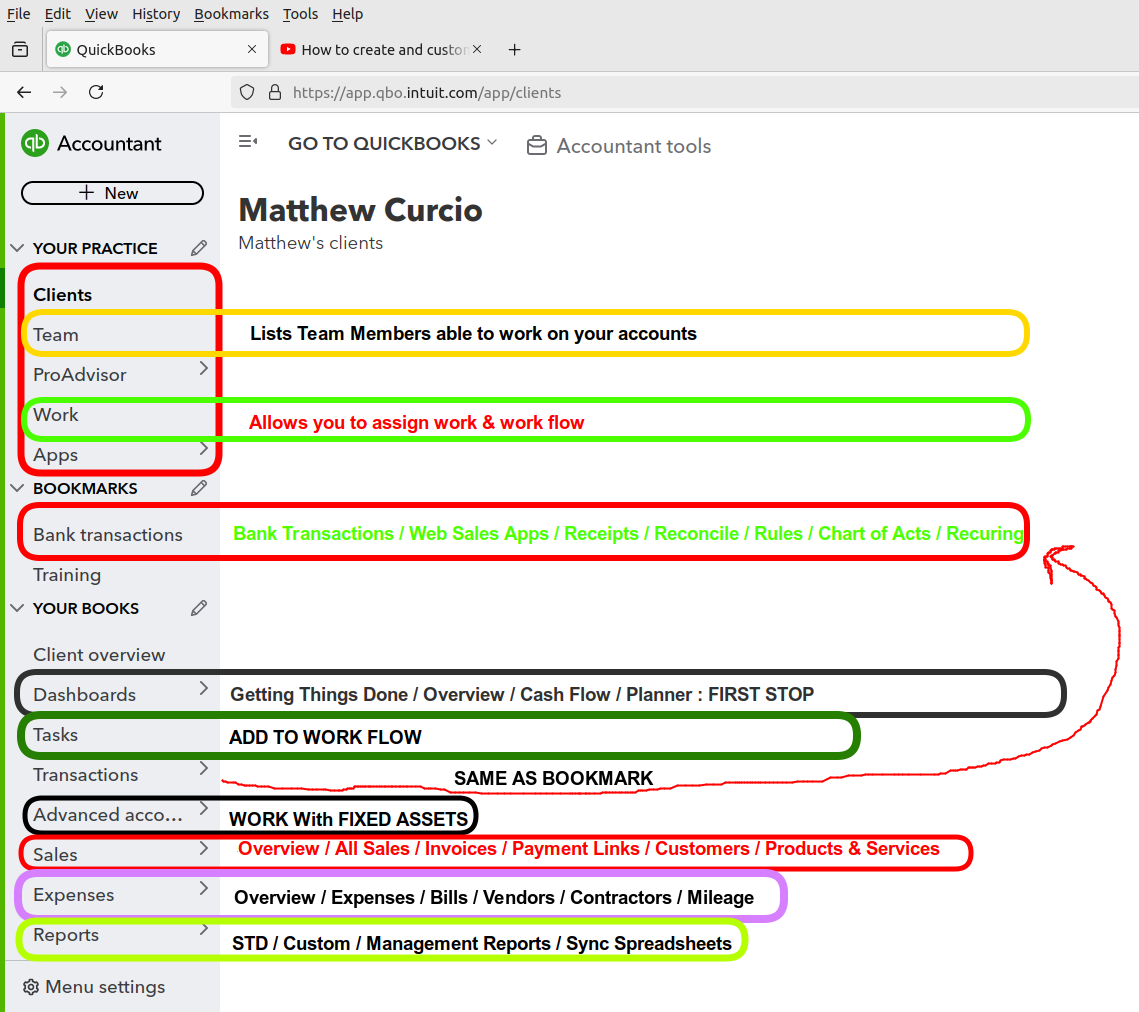
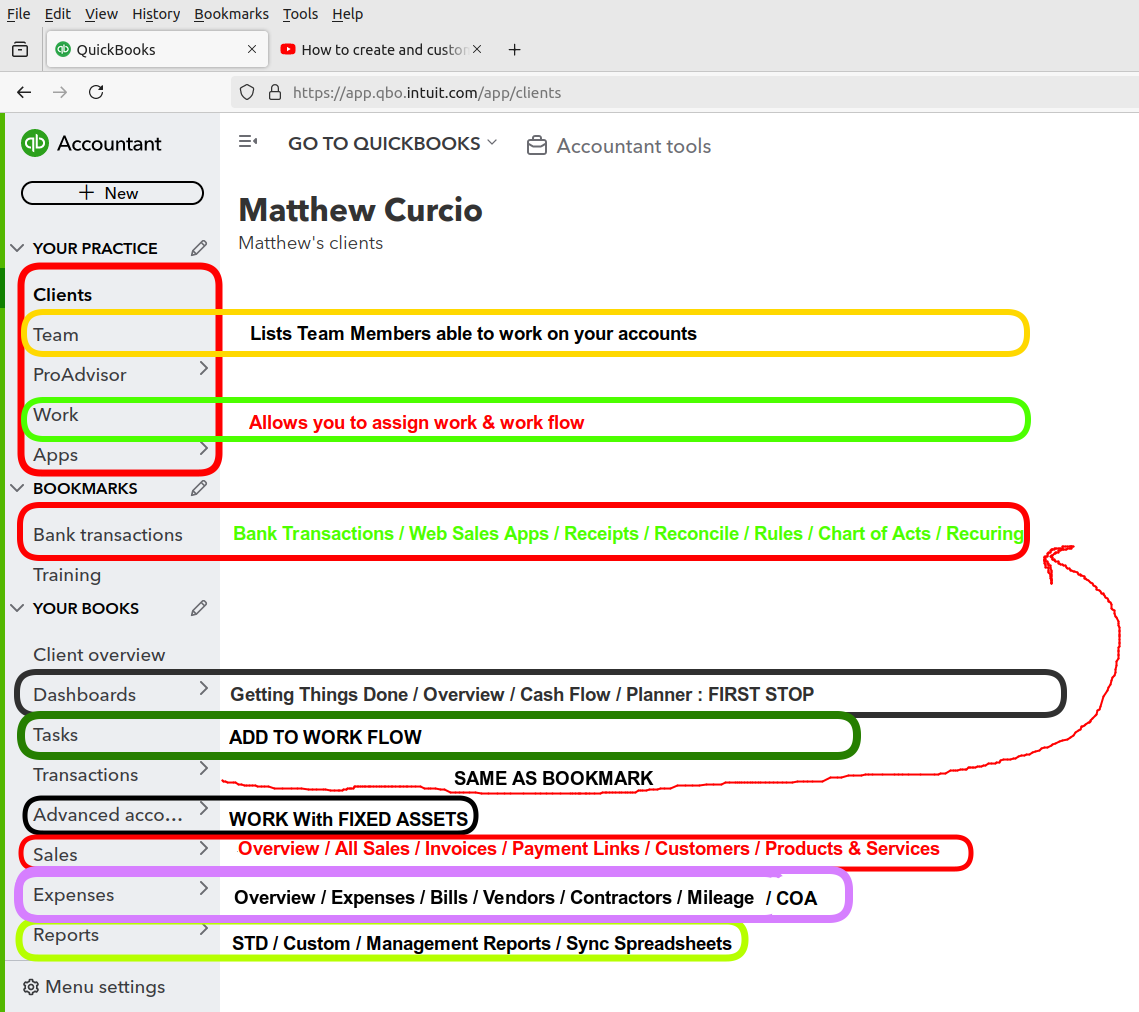
qbo free mods

Changed region(s): [[0.0307, 0.8883, 0.6453, 0.919], [0.676, 0.8577, 0.7682, 0.919]]

diff --git a/_posts/2024-06-30-qbo-free.md b/_posts/2024-06-30-qbo-free.md
@@ -3,50 +3,58 @@ title: thequickbooksdude NOTES
 layout: post
 ---
 
-## QuickBooks Online Complete Tutorial
+ <script> function openWindow()
+ {window.open("https://www.youtube.com/watch?v=aoWghI3kvpc");}
+ </script>
 
-<button onclick="openWindow()">Open Tab: the quickbooks dude</button>
-<script>
-function openWindow() {
-  window.open("https://www.youtube.com/watch?v=aoWghI3kvpc");
-}
-</script>
+| QuickBooks Online Youtube Tutorial |
+|:-:|
+| <button onclick="openWindow()">Open: The quickbooks dude</button>|
+
+
 
 Timestamps:  
 
 1:45 Navigate The QuickBooks Online Interface
 
-|Two main views||
-|:--|:--|
-|![Accountant](/assets/images/qbo.left.panel.png)|1. Accountant view - has 17 options from the left hand menu|
-||2. Business view - has 9 options on left hand side menu|
-
-### Similar aspects for BOTH views
+### Similar aspects for all views
 
   1. `Settings` 'gear-wheel' on top-rt
   2. `+New` on the top-left: opens menu for day-to-day tasks
-  3. `Left panel menu`: either Accountant view or Business view
-  4. `Getting things done` once you drill down
+  3. `Left panel menu`: Accountant view or Business view
 
-![](/assets/images/getting-things-done.700px.png)
+![](/assets/images/getting-things-done.BIG.png)
 
 
-### Similar
+### 1. Settings
 
 1. Adjust ('gear-wheel' on top-rt) Company Settings & Account Settings
 
 ![](/assets/images/gear-settings_2024-06-19_09-49-27.png)
 
-2. Left panel menu and "+New"
+### 2 & 3. Left panel menu & `+New`
 
-**Chapter 1 & 2 are introductory material** 
+
+|Accountant Main View:</br>17 options from the left hand menu|
+|:--:|
+|![Accountant](/assets/images/qbo.left.panel.png)|
+
+> NOTE Chapter 1 & 2 are introductory material for video  
+
+
+|Accountant Options|
+|:--:|
+|![Accountant](/assets/images/my-clients-page_2024-06-19_10-09-25.png)|
+
+---
+
 
 ### 16:22 Chapter 3: Manage The QBO Chart Of Accounts  
 
 
-- **Find COA**: Left Panel/Expenses/Transactions/Chart of Accounts  
+- **Find COA**: `Left Panel`/`Expenses`/`Transactions`/`Chart of Accounts` 
 
-- **Make COA Accounts Inactive**: Use **View register** on right-hand drop down menu,  See Pic  
+- **To Make Acts Inactive / New**: Use `View register` on right-hand drop down menu,  See Pic  
 
 >**NOTE**: It is not possible to make some accounts inactive  
 {: .block-warning } 
@@ -55,139 +63,69 @@ Timestamps:
 {: .block-warning }
 
 
+|COA Options|
+|:--:|
+|![Accountant](/assets/images/new.chart.of.accounts.button.png)|
+
+
+### 26:10  Chapter 4: Managing Customer And Vendor Data 
 
 
 
 
 
-26:10  Chapter 4: Managing Customer And Vendor Data 
 
-<button onclick="openWindow()">Chapter 4: Managing Customer And Vendor Data</button>
-<script>
-function openWindow() {
-  window.open("https://www.youtube.com/watch?v=aoWghI3kvpc");
-}
-</script>
+
+### 34:07 Chapter 5: Managing The List Of Products And Services 
 
 
 
-34:07 Chapter 5: Managing The List Of Products And Services 
 
-<button onclick="openWindow()">Chapter 5: Managing The List Of Products And Services </button>
-<script>
-function openWindow() {
-  window.open("https://www.youtube.com/watch?v=aoWghI3kvpc");
-}
-</script>
-
-40:05 Chapter 6: Entering Your First Transaction, Creating An Invoice 
-
-<button onclick="openWindow()">Chapter 6: Entering Your First Transaction, Creating An Invoice</button>
-<script>
-function openWindow() {
-  window.open("https://www.youtube.com/watch?v=aoWghI3kvpc");
-}
-</script>
-
-
-56:22 Chapter 7: First QuickBooks Transaction Practice
-
-<button onclick="openWindow()">Chapter 7: First QuickBooks Transaction Practice</button>
-<script>
-function openWindow() {
-  window.open("https://www.youtube.com/watch?v=aoWghI3kvpc");
-}
-</script>
-
-58:35 Chapter 8: Editing, Finding, And Fixing QuickBooks Online Mistakes 
-
-<button onclick="openWindow()">Chapter 8: Editing, Finding, And Fixing QuickBooks Online Mistakes</button>
-<script>
-function openWindow() {
-  window.open("https://www.youtube.com/watch?v=aoWghI3kvpc");
-}
-</script>
-
-1:03:42  Chapter 9: Deleting Transactions In QuickBooks Online 
-
-<button onclick="openWindow()">Chapter 9: Deleting Transactions In QuickBooks Online</button>
-<script>
-function openWindow() {
-  window.open("https://www.youtube.com/watch?v=aoWghI3kvpc");
-}
-</script>
-
-
-1:09:16 Chapter 10: Receiving Invoice Payments 
-
-<button onclick="openWindow()">Chapter 10: Receiving Invoice Payments</button>
-<script>
-function openWindow() {
-  window.open("https://www.youtube.com/watch?v=aoWghI3kvpc");
-}
-</script>
-
-
-1:18:54  Chapter 11: How To Enter Sales Receipts 
-
-<button onclick="openWindow()">Chapter 11: How To Enter Sales Receipts</button>
-<script>
-function openWindow() {
-  window.open("https://www.youtube.com/watch?v=aoWghI3kvpc");
-}
-</script>
-
-
-1:26:28  Chapter 12: Customize QuickBooks Reports With The Journal 
-
-<button onclick="openWindow()">Chapter 12: Customize QuickBooks Reports With The Journal</button>
-<script>
-function openWindow() {
-  window.open("https://www.youtube.com/watch?v=aoWghI3kvpc");
-}
-</script>
-
-
-1:38:11  Chapter 13: Practice Transactions with Customers And Receivables 
-
-<button onclick="openWindow()">Chapter 13: Practice Transactions with Customers And Receivables</button>
-<script>
-function openWindow() {
-  window.open("https://www.youtube.com/watch?v=aoWghI3kvpc");
-}
-</script>
-
-
-1:44:05  Chapter 14: What Is Accounts Payable? 
-
-<button onclick="openWindow()">Chapter 14: What Is Accounts Payable?</button>
-<script>
-function openWindow() {
-  window.open("https://www.youtube.com/watch?v=aoWghI3kvpc");
-}
-</script>
+### 40:05 Chapter 6: Entering Your First Transaction, Creating An Invoice 
 
 
 
-1:47:07  Chapter 15: Entering Vendor’s Bills 
-
-<button onclick="openWindow()">Chapter 15: Entering Vendor’s Bills</button>
-<script>
-function openWindow() {
-  window.open("https://www.youtube.com/watch?v=aoWghI3kvpc");
-}
-</script>
+### 56:22 Chapter 7: First QuickBooks Transaction Practice
 
 
 
-1:54:08  Chapter 16: Practice Enter Bills Exercise
+### 58:35 Chapter 8: Editing, Finding, And Fixing QuickBooks Online Mistakes 
 
-<button onclick="openWindow()">Chapter 16: Practice Enter Bills Exercise</button>
-<script>
-function openWindow() {
-  window.open("https://www.youtube.com/watch?v=aoWghI3kvpc");
-}
-</script>
+
+
+### 1:03:42  Chapter 9: Deleting Transactions In QuickBooks Online 
+
+
+### 1:09:16 Chapter 10: Receiving Invoice Payments 
+
+
+
+
+### 1:18:54  Chapter 11: How To Enter Sales Receipts 
+
+
+
+
+### 1:26:28  Chapter 12: Customize QuickBooks Reports With The Journal 
+
+
+
+### 1:38:11  Chapter 13: Practice Transactions with Customers And Receivables 
+
+
+
+### 1:44:05  Chapter 14: What Is Accounts Payable? 
+
+
+
+
+### 1:47:07  Chapter 15: Entering Vendor’s Bills 
+
+
+
+
+### 1:54:08  Chapter 16: Practice Enter Bills Exercise
+
 
 
 
